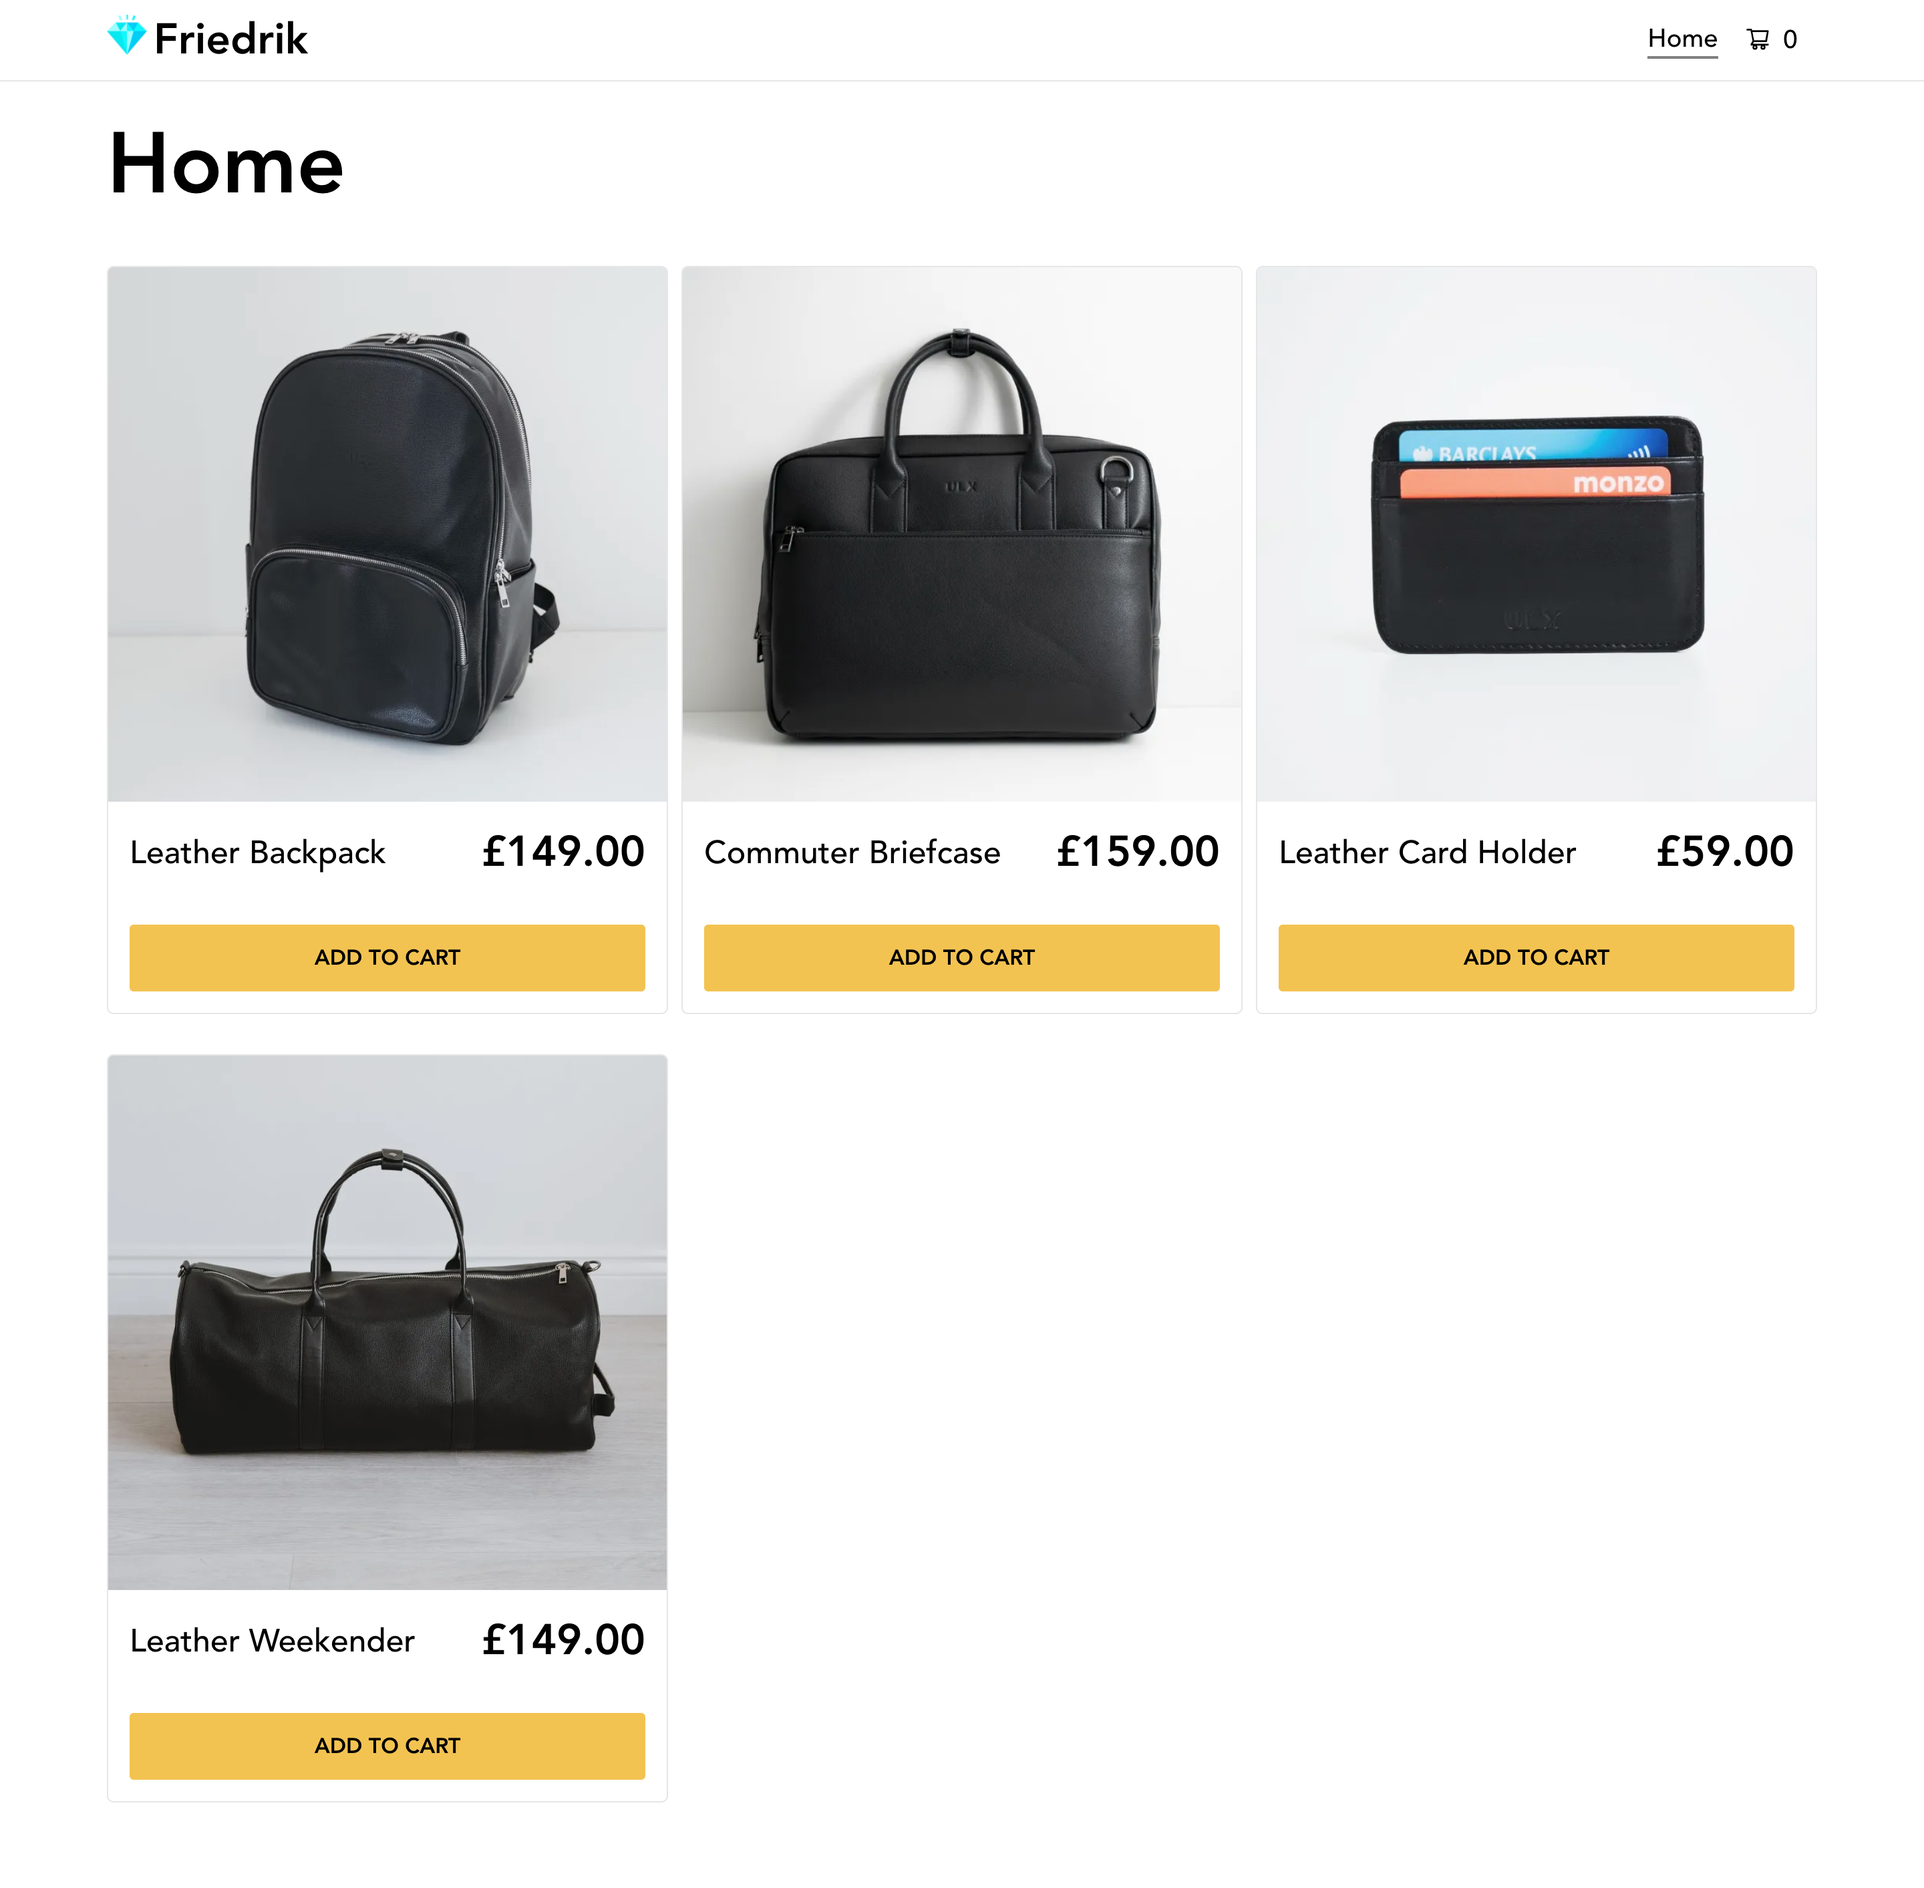
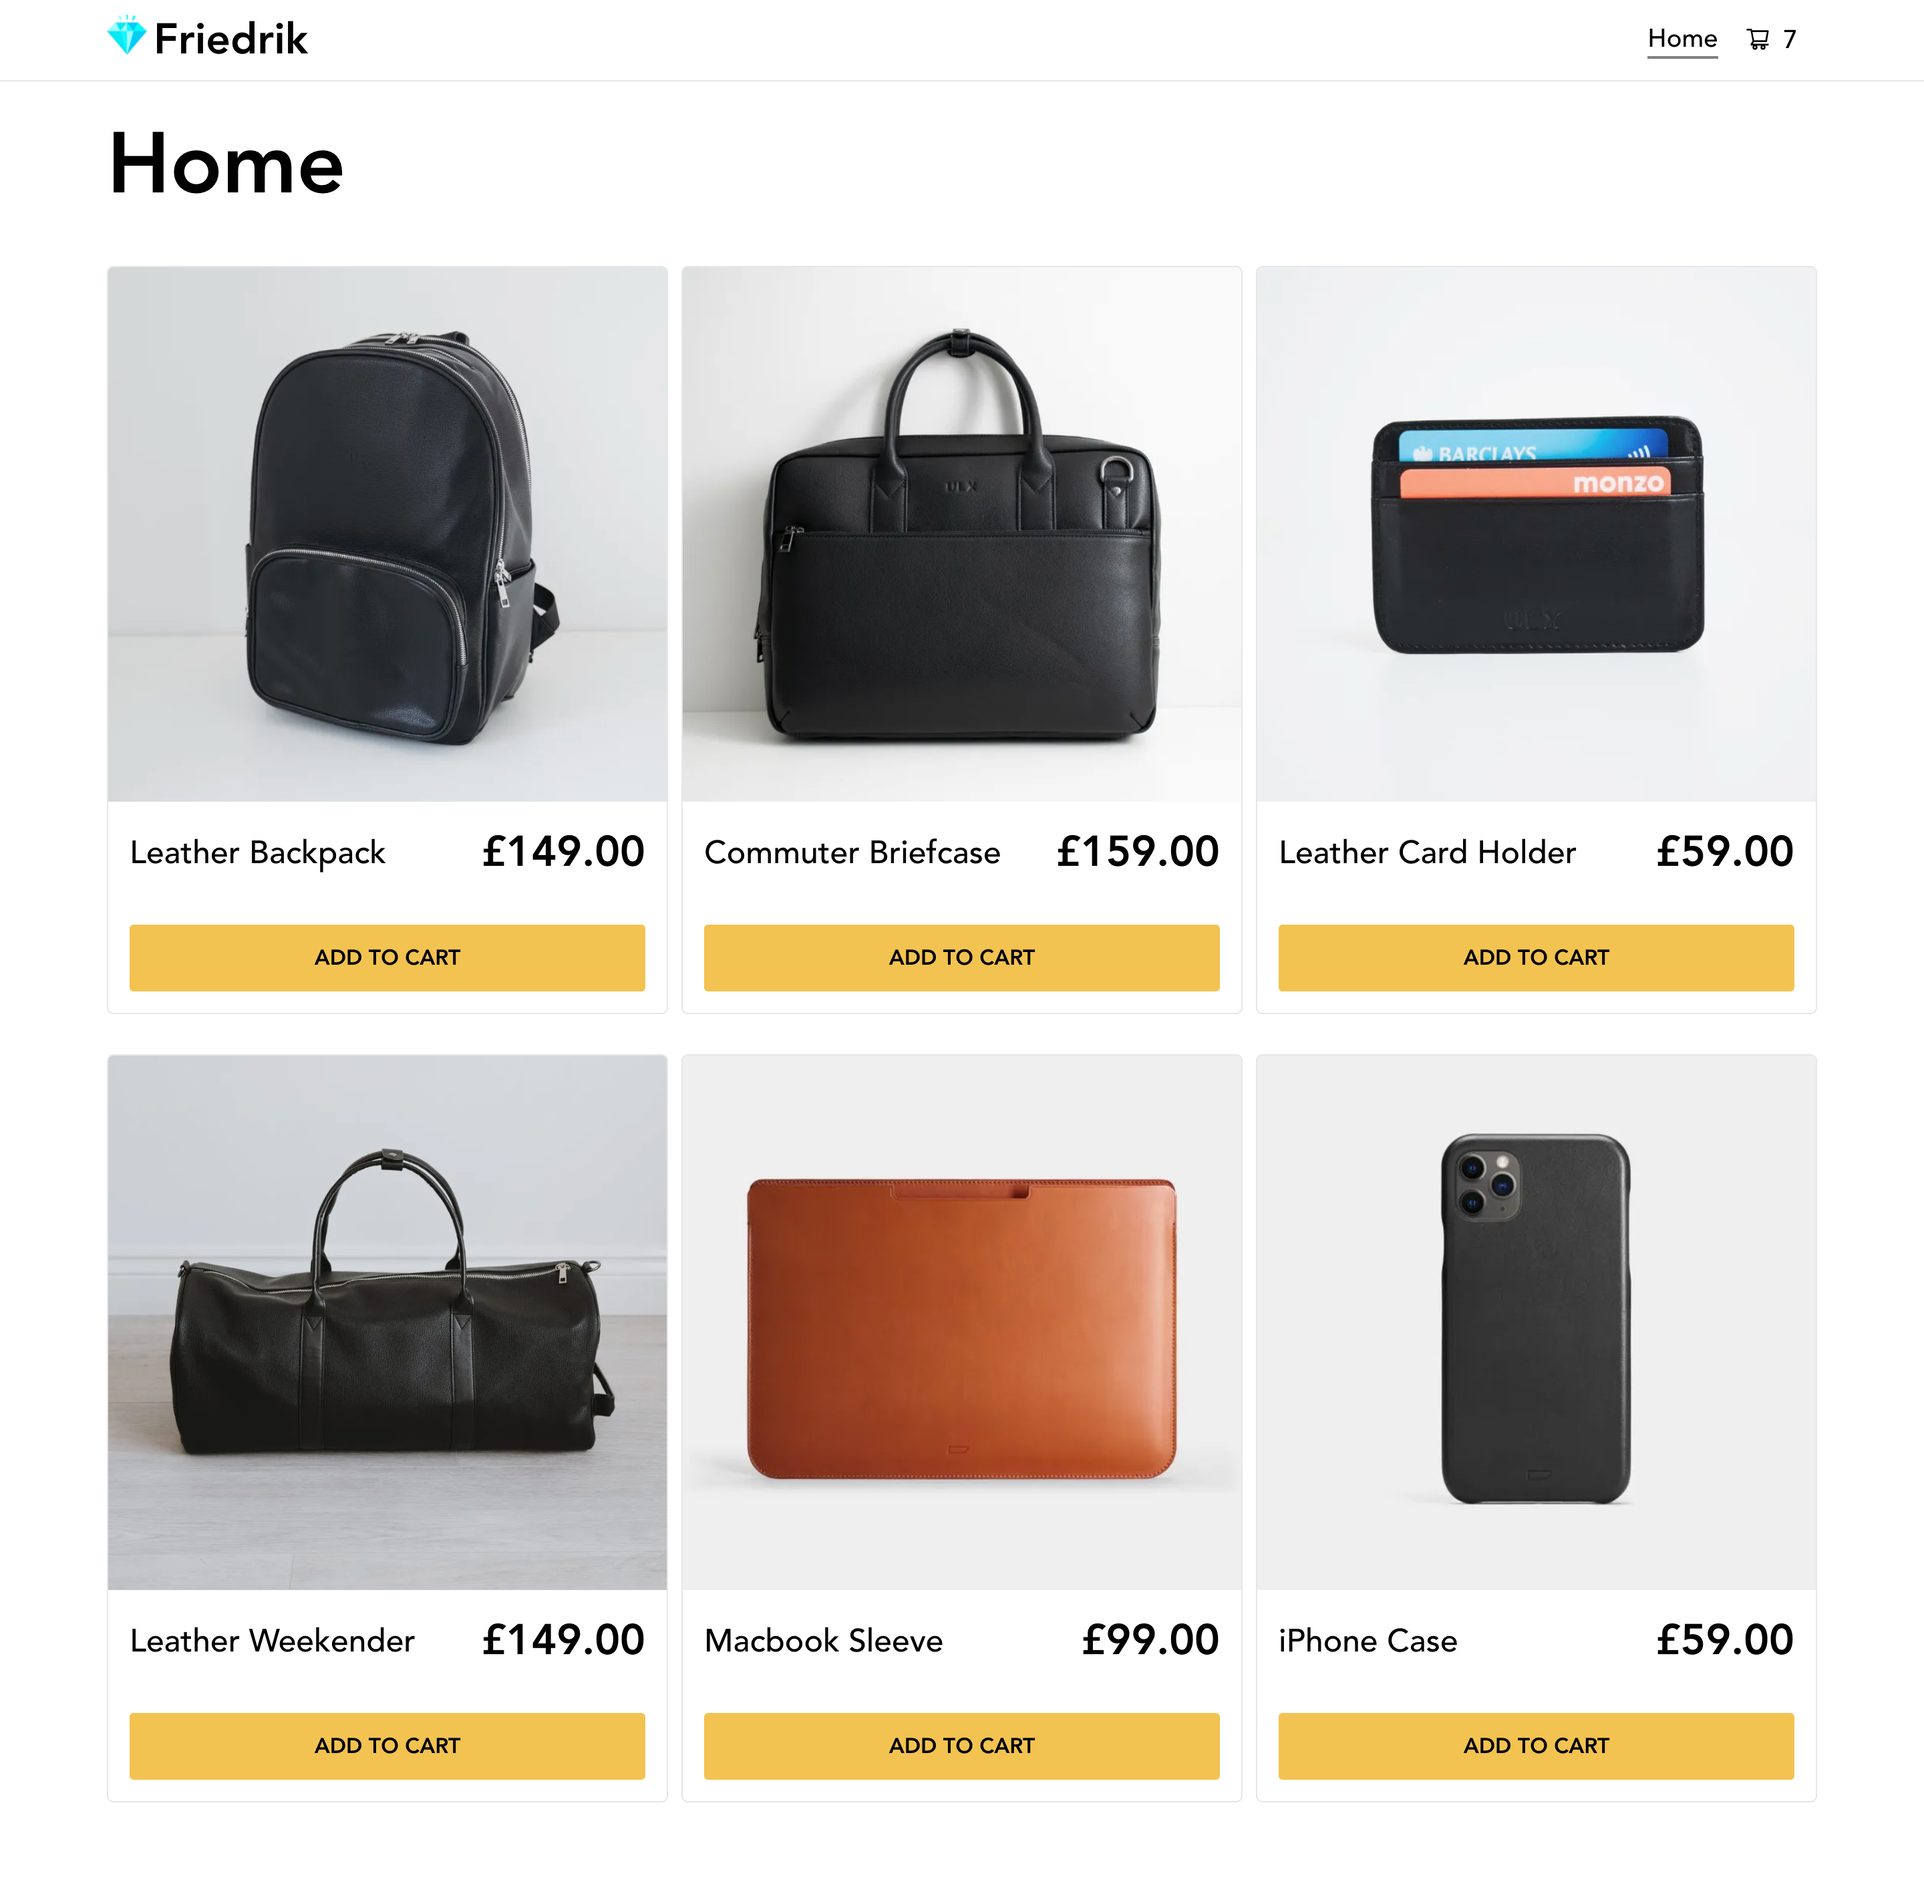
Added two more products

diff --git a/src/data/products.js b/src/data/products.js
@@ -19,4 +19,14 @@ export const products = [
     price: 149,
     path: './assets/product-images/leather-weekender.webp',
   },
+  {
+    name: 'Macbook Sleeve',
+    price: 99,
+    path: './assets/product-images/macbook-sleeve.webp',
+  },
+  {
+    name: 'iPhone Case',
+    price: 59,
+    path: './assets/product-images/iphone-case.webp',
+  },
 ]
